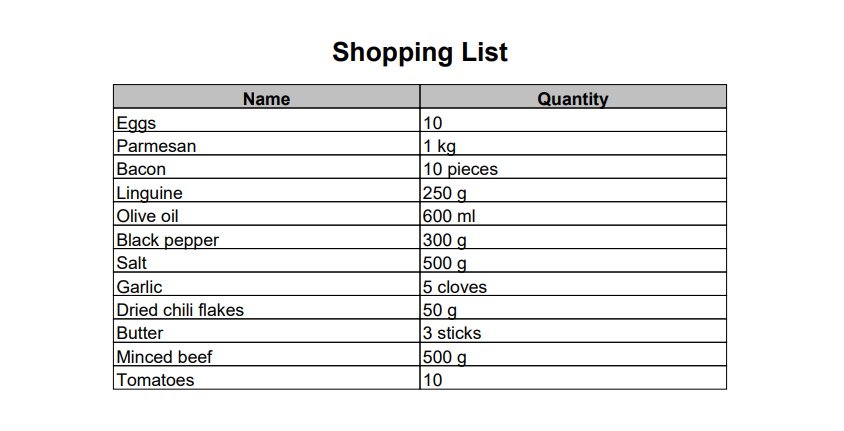
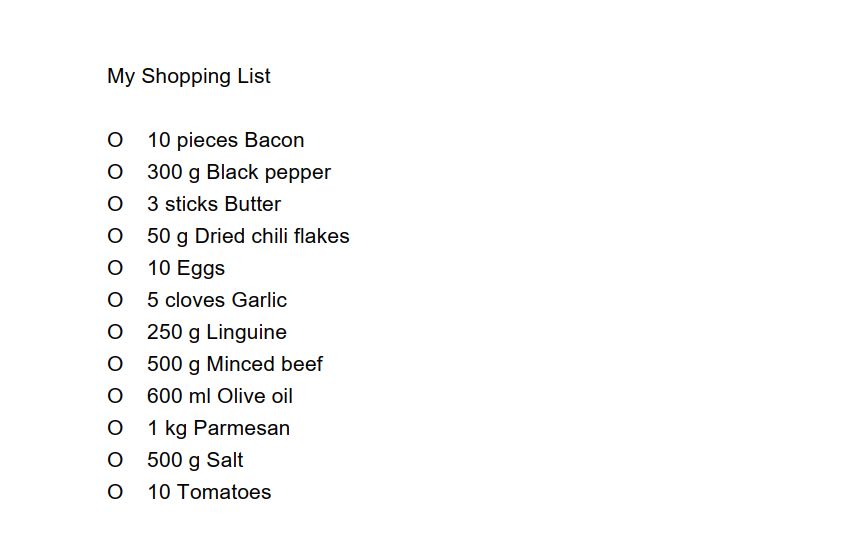
Remove uses of iTextPDF and replace them with Apache PDFbox

Changed region(s): [[0.1232, 0.1206, 0.8626, 0.935], [0.3697, 0.0905, 0.6161, 0.1508]]

diff --git a/src/main/java/seedu/address/model/util/PdfExporter.java b/src/main/java/seedu/address/model/util/PdfExporter.java
@@ -1,22 +1,19 @@
 package seedu.address.model.util;
 
-import java.io.FileOutputStream;
+import java.io.File;
 import java.io.IOException;
-import java.util.stream.Stream;
+import java.util.ArrayList;
+import java.util.List;
 
-import com.itextpdf.text.BaseColor;
-import com.itextpdf.text.Chunk;
-import com.itextpdf.text.Document;
-import com.itextpdf.text.DocumentException;
-import com.itextpdf.text.Element;
-import com.itextpdf.text.Font;
-import com.itextpdf.text.Paragraph;
-import com.itextpdf.text.Phrase;
-import com.itextpdf.text.pdf.PdfPCell;
-import com.itextpdf.text.pdf.PdfPTable;
-import com.itextpdf.text.pdf.PdfWriter;
+import org.apache.pdfbox.pdmodel.PDDocument;
+import org.apache.pdfbox.pdmodel.PDPage;
+import org.apache.pdfbox.pdmodel.PDPageContentStream;
+import org.apache.pdfbox.pdmodel.common.PDRectangle;
+import org.apache.pdfbox.pdmodel.font.PDFont;
+import org.apache.pdfbox.pdmodel.font.PDType1Font;
 
 import javafx.collections.ObservableList;
+
 import seedu.address.model.ingredient.Ingredient;
 
 /**
@@ -24,58 +21,98 @@ import seedu.address.model.ingredient.Ingredient;
  */
 public class PdfExporter {
 
+    private static final PDFont PDF_FONT = PDType1Font.HELVETICA;
+    private static final float FONT_SIZE = 16;
+    private static final String MULTIPLE_LINE_PREFIX = "O    ";
+    private static final String PDF_HEADER_TEXT = "My Shopping List";
+    private static final String MULTIPLE_LINE_SUB_LINES_PREFIX = "       ";
+    private static final int START_INDEX = 0;
+    private static final int LINE_CHARACTER_LIMIT = 50;
+    private static final int MULTIPLE_LINE_CHARACTER_LIMIT = 43;
+
     /**
      * Exports the given list of {@code ingredients} from the cart to a pdf file.
+     *
      * @param ingredients The list of ingredients in the cart.
      * @throws IOException if cart.pdf is open and therefore unmodifiable.
      */
-    public static void exportCart(ObservableList<Ingredient> ingredients) throws IOException, DocumentException {
-        Document document = new Document();
-        PdfWriter.getInstance(document, new FileOutputStream("cart.pdf"));
+    public static void exportCart(ObservableList<Ingredient> ingredients) throws IOException {
 
-        document.open();
+        try (PDDocument doc = new PDDocument()) {
+            PDPage page = new PDPage();
+            doc.addPage(page);
+            PDPageContentStream contentStream = new PDPageContentStream(doc, page);
 
-        Font font = new Font(Font.FontFamily.HELVETICA, 18, Font.BOLD);
-        Chunk title = new Chunk("Shopping List\n\n", font);
-        Phrase phrase = new Phrase();
-        phrase.add(title);
-        Paragraph paragraph = new Paragraph();
-        paragraph.add(phrase);
-        paragraph.setAlignment(Element.ALIGN_CENTER);
+            float leading = 1.5f * FONT_SIZE;
 
-        PdfPTable table = new PdfPTable(2);
-        addTableHeader(table);
-        addRows(table, ingredients);
+            PDRectangle mediabox = page.getMediaBox();
+            float margin = 72;
+            float width = mediabox.getWidth() - 2 * margin;
+            float startX = mediabox.getLowerLeftX() + margin;
+            float startY = mediabox.getUpperRightY() - margin;
+            contentStream.beginText();
+            contentStream.setFont(PDF_FONT, FONT_SIZE);
+            contentStream.newLineAtOffset(startX, startY);
 
-        document.add(paragraph);
-        document.add(table);
-        document.close();
+            List<String> lines = getTextFromCart(ingredients);
+            int index = 0;
+
+            while (index < lines.size()) {
+                if (index % 28 == 0 && index != 0) {
+                    contentStream.endText();
+                    contentStream.close();
+                    page = new PDPage();
+                    doc.addPage(page);
+                    contentStream = new PDPageContentStream(doc, page);
+                    contentStream.beginText();
+                    contentStream.setFont(PDF_FONT, FONT_SIZE);
+                    contentStream.newLineAtOffset(startX, startY);
+                }
+
+                contentStream.showText(lines.get(index));
+                contentStream.newLineAtOffset(0, -leading);
+                index++;
+            }
+
+            contentStream.endText();
+            contentStream.close();
+
+            doc.save(new File("cart.pdf"));
+        }
     }
 
-    /**
-     * Adds rows to a table for exporting a cart.
-     */
-    private static void addRows(PdfPTable table, ObservableList<Ingredient> ingredients) {
-        ingredients.forEach(ingredient -> {
-            table.addCell(ingredient.getName().toString());
-            table.addCell(ingredient.getQuantity().toString());
-        });
-    }
+    private static List<String> getTextFromCart(ObservableList<Ingredient> ingredients) {
+        List<String> lines = new ArrayList<>();
+        lines.add(PDF_HEADER_TEXT);
+        lines.add(" ");
 
-    /**
-     * Adds headers to a table for exporting a cart.
-     */
-    private static void addTableHeader(PdfPTable table) {
-        Stream.of("Name", "Quantity")
-            .forEach(columnTitle -> {
-                Font bold = new Font(Font.FontFamily.HELVETICA, 12, Font.BOLD);
-                PdfPCell header = new PdfPCell();
-                header.setBackgroundColor(BaseColor.LIGHT_GRAY);
-                Phrase phrase = new Phrase(columnTitle, bold);
-                header.setPhrase(phrase);
-                header.setHorizontalAlignment(Element.ALIGN_CENTER);
-                table.addCell(header);
-            });
-    }
+        for (Ingredient ingredient : ingredients) {
+            String text = MULTIPLE_LINE_PREFIX + ingredient.toString();
+            boolean isFirstLine = true;
 
+            while (text.length() > 0) {
+                if (text.length() < LINE_CHARACTER_LIMIT) {
+                    if (isFirstLine) {
+                        lines.add(text);
+                    } else {
+                        lines.add(MULTIPLE_LINE_SUB_LINES_PREFIX + text);
+                    }
+
+                    break;
+                } else {
+                    if (isFirstLine) {
+                        lines.add(text.substring(START_INDEX, LINE_CHARACTER_LIMIT));
+                        text = text.substring(LINE_CHARACTER_LIMIT);
+                    } else {
+                        lines.add("       " + text.substring(START_INDEX, MULTIPLE_LINE_CHARACTER_LIMIT));
+                        text = text.substring(MULTIPLE_LINE_CHARACTER_LIMIT);
+                    }
+
+                    isFirstLine = false;
+                }
+            }
+        }
+
+        return lines;
+    }
 }

diff --git a/src/main/java/seedu/address/logic/commands/cart/CartExportCommand.java b/src/main/java/seedu/address/logic/commands/cart/CartExportCommand.java
@@ -4,8 +4,6 @@ import static java.util.Objects.requireNonNull;
 
 import java.io.IOException;
 
-import com.itextpdf.text.DocumentException;
-
 import seedu.address.logic.commands.CommandResult;
 import seedu.address.logic.commands.exceptions.CommandException;
 import seedu.address.model.Model;
@@ -34,7 +32,7 @@ public class CartExportCommand extends CartCommand {
 
         try {
             PdfExporter.exportCart(model.getCart().getIngredientList());
-        } catch (IOException | DocumentException e) {
+        } catch (IOException e) {
             return new CommandResult(MESSAGE_FILE_NOT_FOUND);
         }
 
